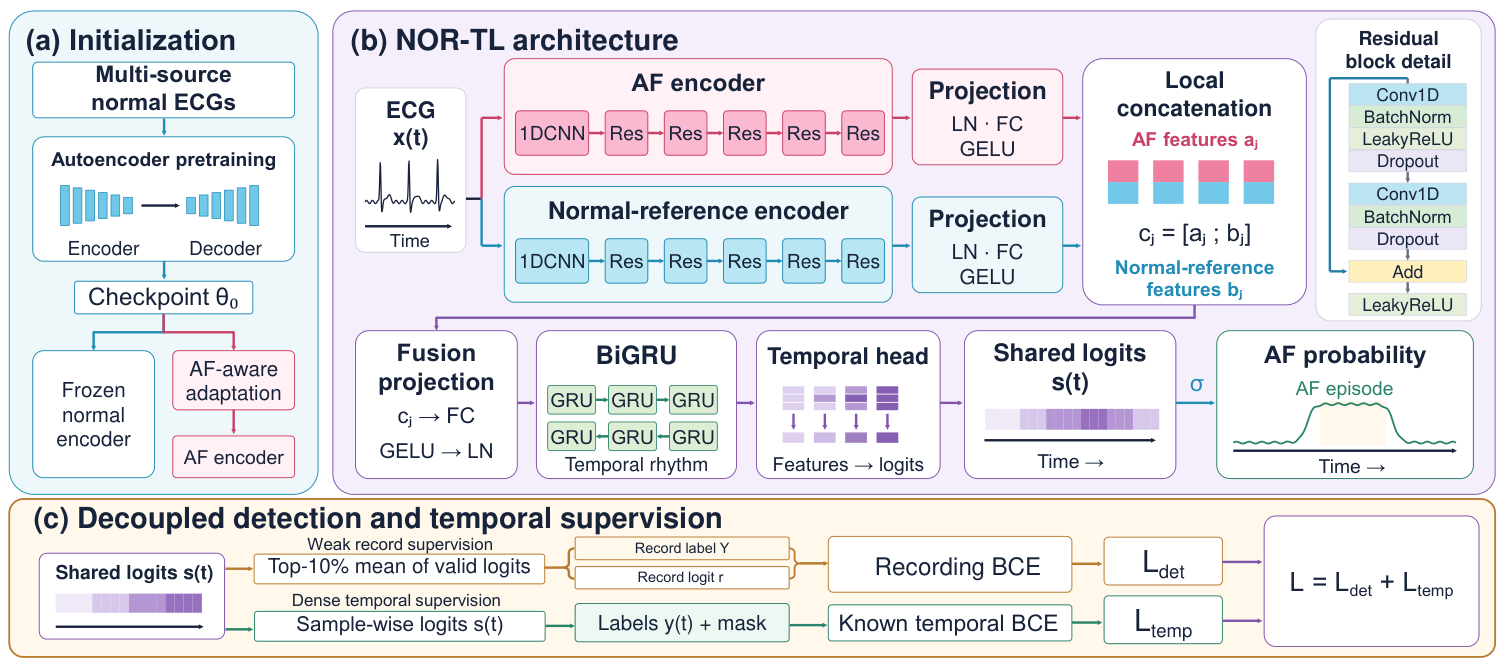
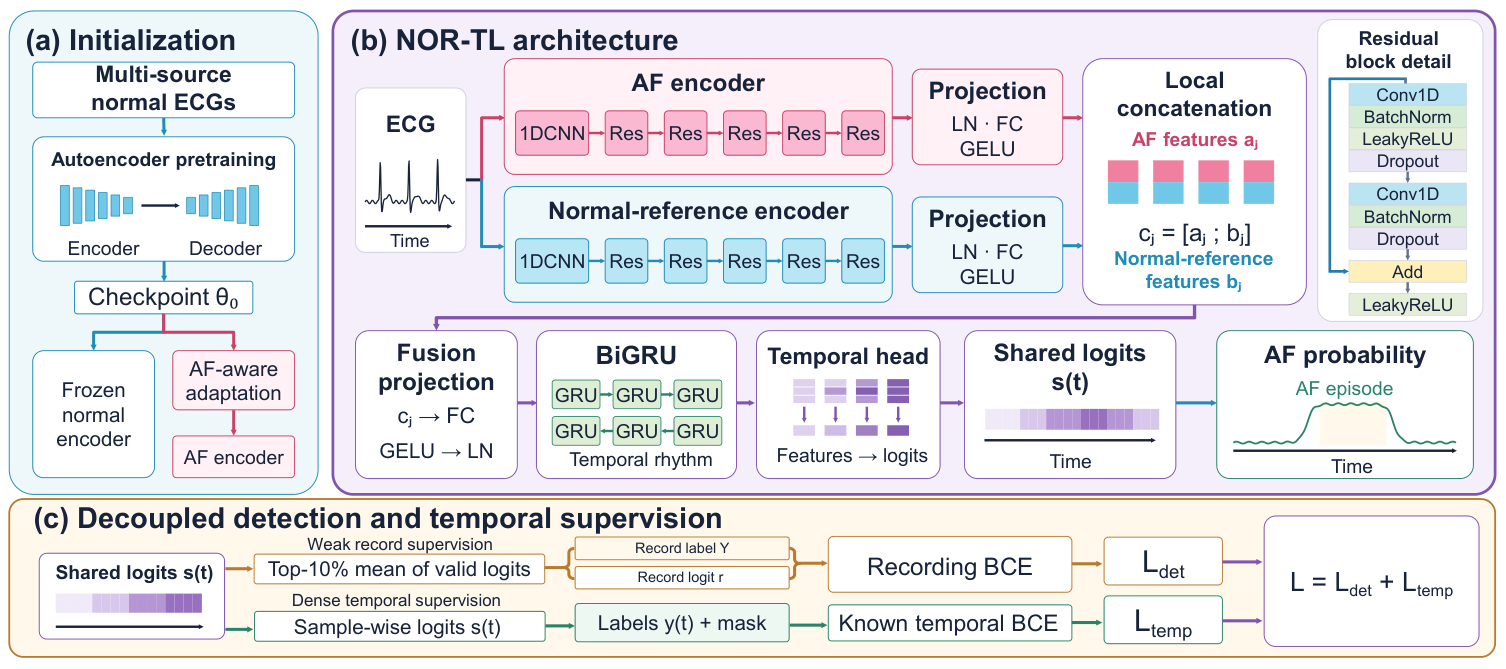
Align NOR-TL card and CV with revised AF detection manuscript

diff --git a/_pages/about.md b/_pages/about.md
@@ -25,7 +25,7 @@ redirect_from:
 
 I am a master's student in Electronic Information at the University of Chinese Academy of Sciences, working on AI for Health with a particular interest in cardiovascular AI. My research focuses on learning reliable representations from complex, noisy, heterogeneous, and incomplete biomedical data, and developing methods that are useful in real clinical settings.
 
-I work on medical imaging and physiological signals, including prostate ultrasound segmentation and measurement, longitudinal ECG forecasting, and paroxysmal atrial fibrillation episode localization. Across these projects, I aim to connect robust learning with clinical needs, meaningful validation, and practical deployment. My engineering background in signal processing, physical modeling, and hands-on system building shapes how I approach these problems.
+I work on medical imaging and physiological signals, including prostate ultrasound segmentation and measurement, longitudinal ECG forecasting, and paroxysmal atrial fibrillation detection. Across these projects, I aim to connect robust learning with clinical needs, meaningful validation, and practical deployment. My engineering background in signal processing, physical modeling, and hands-on system building shapes how I approach these problems.
 
 <span class="anchor" id="publications"></span>
 
@@ -37,7 +37,7 @@ I work on medical imaging and physiological signals, including prostate ultrasou
 
 # Research and Engineering Experience
 - *2025.08 -- Present*, **Individualized ECG Waveform Forecasting** - University of Chinese Academy of Sciences; clinical collaborators: **Fuwai Hospital and Aerospace Center Hospital, Beijing**. Built preprocessing and representation-learning pipelines for over one million public ECG records and over 100,000 hospital recordings; contributed to waveform evaluation and follow-up analysis across two longitudinal forecasting studies, including a clinical subset of 959 participants; contributed to NSFC General Program and Beijing Natural Science Foundation proposal preparation.
-- *2026.04 -- 2026.09*, **NOR-TL: Paroxysmal AF Episode Localization** - University of Chinese Academy of Sciences; clinical collaborators: **Fuwai Hospital and Aerospace Center Hospital, Beijing**. Developed a dual-stream framework to address scarce time-point rhythm annotations, combining normal-reference and AF-specific ECG representations. Designed separate supervision for recording-level detection and temporal localization to use coarse and dense labels without treating them as interchangeable. Evaluated on AFDB and external LTAFDB and CPSC2021 cohorts with patient- or recording-disjoint partitions, achieving 97.98% temporal AUROC and 0.838 MCC on 1,425 CPSC2021 recordings. First-author manuscript submitted to ICASSP 2027.
+- *2026.04 -- 2026.09*, **NOR-TL: Paroxysmal AF Detection** - University of Chinese Academy of Sciences; clinical collaborator: **Aerospace Center Hospital, Beijing**. Developed normal-reference and AF-specific ECG representations with decoupled supervision: weak recording labels guide pooled detection, while interval annotations supervise sample-wise predictions. Evaluated window-level recognition and time-point detection on public, clinical-grade AFDB and external LTAFDB and CPSC2021 recordings with patient- or recording-disjoint partitions. Achieved 98.0% temporal AUROC and 0.838 time-point MCC on 1,425 CPSC2021 recordings. First-author manuscript submitted to ICASSP 2027.
 - *2024.09 -- Present*, **Privileged Learning for Prostate Ultrasound Segmentation and Measurement** - developed PRISM and MIRAUS to use MRI-derived information during training while retaining TRUS-only inference; evaluated patient-disjoint segmentation, external generalization, and model-derived calipers for conventional ellipsoid volume estimation; contributed to manuscript writing and grant proposal preparation for a NSFC Regional Science Fund project.
 - *2025.04 -- Present*, **Biomechanical Simulation and Physical Orthopedic Modeling** - constructed an ANSYS model of humeral motion using physiological movement constraints; compared simulated kinematics and force responses with collaborator measurements; designed and built a physical orthopedic model to reproduce humeral motion for bench-scale validation. Co-authored **BioShoulder**, a dataset of simulated shoulder muscle activations, as part of this broader shoulder-biomechanics collaboration (third author).
 - *2024*, **Deep Learning-Based Underwater Acoustic Channel Estimation** - investigated deep learning methods for underwater acoustic channel estimation in noisy and time-varying conditions, with a focus on signal processing and experimental evaluation.

diff --git a/_pages/cv.md b/_pages/cv.md
@@ -34,13 +34,13 @@ Clinical collaborators: Fuwai Hospital; Aerospace Center Hospital, Beijing.
 - Built ECG preprocessing and representation-learning pipelines across over one million public records and over 100,000 hospital recordings; contributed data curation, full-waveform and P/T-wave analysis, fixed-readout comparisons, and follow-up validation to baseline-conditioned and historical-record forecasting studies.
 - Baseline-conditioned forecasts showed correspondence with within-person follow-up morphology and fixed clinical readouts, including evaluation in a 959-participant clinical subset. In historical-record forecasting, CLEF achieved a normalized RMSE of 0.077 versus 0.106 for an LSTM baseline.
 
-**NOR-TL: Single-Lead Paroxysmal AF Episode Localization** · Apr 2026 – Sep 2026  
+**NOR-TL: Single-Lead Paroxysmal AF Detection** · Apr 2026 – Sep 2026  
 *University of Chinese Academy of Sciences*  
-Clinical collaborators: Fuwai Hospital; Aerospace Center Hospital, Beijing.
+Clinical collaborator: Aerospace Center Hospital, Beijing.
 
-- Addressed scarce time-point rhythm annotations and abundant coarse recording labels in single-lead ECG, aiming to localize paroxysmal atrial fibrillation episodes without treating recording-level labels as temporal ground truth.
-- Designed and implemented NOR-TL with a frozen normal-reference encoder, an adaptive AF stream, and separate supervision for pooled detection and temporal localization. Evaluated on AFDB and external LTAFDB and CPSC2021 cohorts with patient- or recording-disjoint partitions.
-- Achieved 97.98% temporal AUROC and 0.838 MCC on 1,425 external CPSC2021 recordings by combining complementary annotation granularities. First-author manuscript submitted to ICASSP 2027.
+- Addressed limited interval-annotated ECG cohorts for intermittent AF monitoring, aiming to improve window-level recognition and time-point detection by combining large-scale recording labels with scarce temporal annotations.
+- Designed and implemented NOR-TL with a frozen normal-reference encoder, an adaptive AF stream, and separate supervision for pooled detection and sample-wise prediction. Evaluated on public, clinical-grade AFDB and external LTAFDB and CPSC2021 recordings with patient- or recording-disjoint partitions.
+- Achieved 98.0% temporal AUROC and 0.838 time-point MCC on 1,425 external CPSC2021 recordings. Ablations supported normal-reference conditioning and decoupled supervision. First-author manuscript submitted to ICASSP 2027.
 
 **MRI-Privileged Learning for Prostate Ultrasound** · Sep 2024 – Present  
 *University of Chinese Academy of Sciences*  
@@ -58,7 +58,7 @@ Clinical collaborator: China-Japan Friendship Hospital, Beijing.
 
 **Submitted / Under Review**
 
-- **NOR-TL: Normal-Reference Temporal Learning with Decoupled Detection and Temporal Supervision for Paroxysmal AF Episode Localization**. Submitted to ICASSP 2027. *First author.*
+- **NOR-TL: Normal-Reference Temporal Learning with Decoupled Supervision for Paroxysmal AF Detection**. Submitted to ICASSP 2027. *First author.*
 - **A Cross-Temporal Latent Evolution Framework for Year-Scale ECG Waveform Forecasting from Historical Records**. Information Sciences, under review. *Fourth author.*
 
 **Other Manuscripts**
